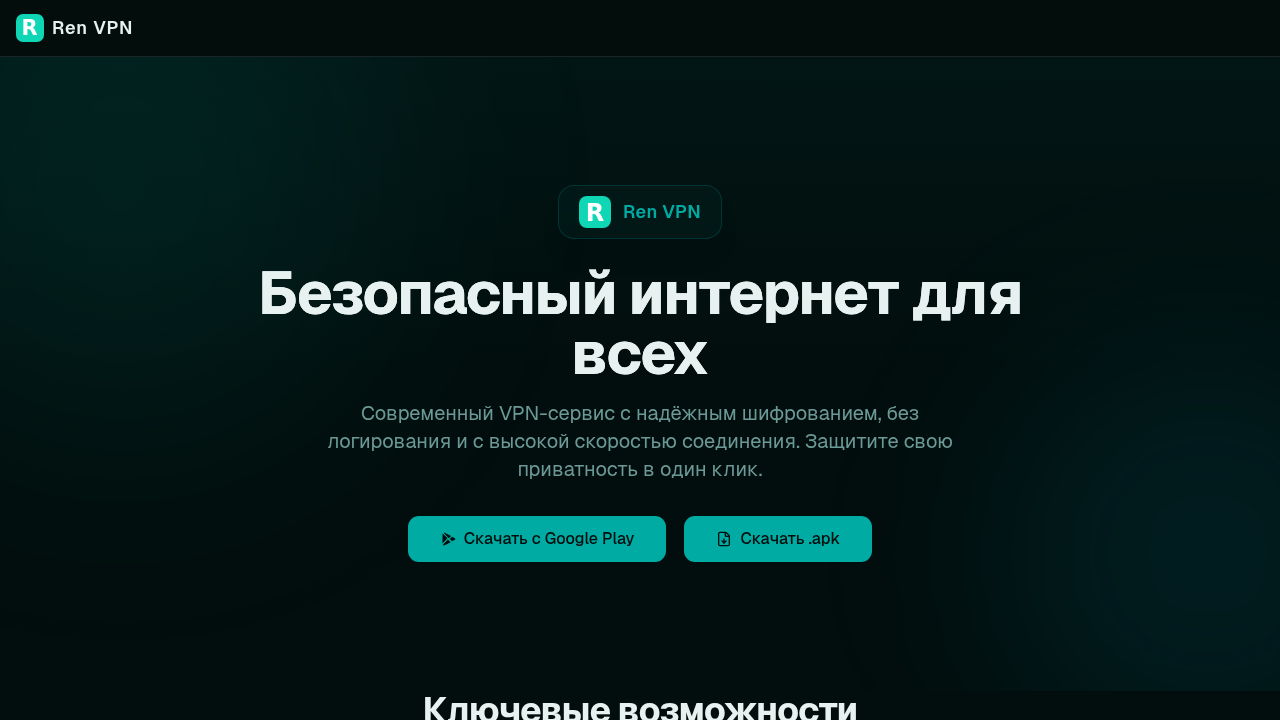
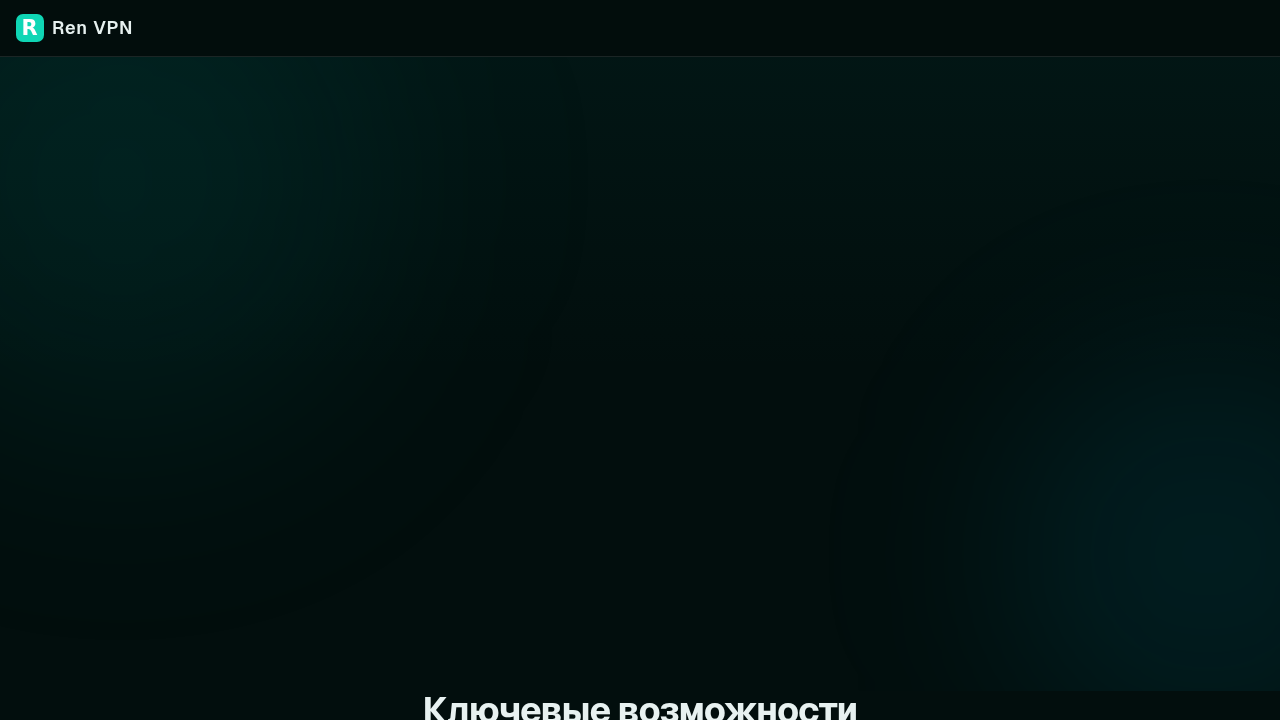
Added

diff --git a/components/hero-section.tsx b/components/hero-section.tsx
@@ -28,7 +28,7 @@ export function HeroSection() {
               {appInfo.description}
             </p>
           </div>
-          <div className="flex items-center justify-center gap-4">
+          <div className="flex flex-col sm:flex-row items-center justify-center gap-4">
             <a
               href="https://play.google.com/store/apps/details?id=com.rg.nomadvpn"
               target="_blank"
